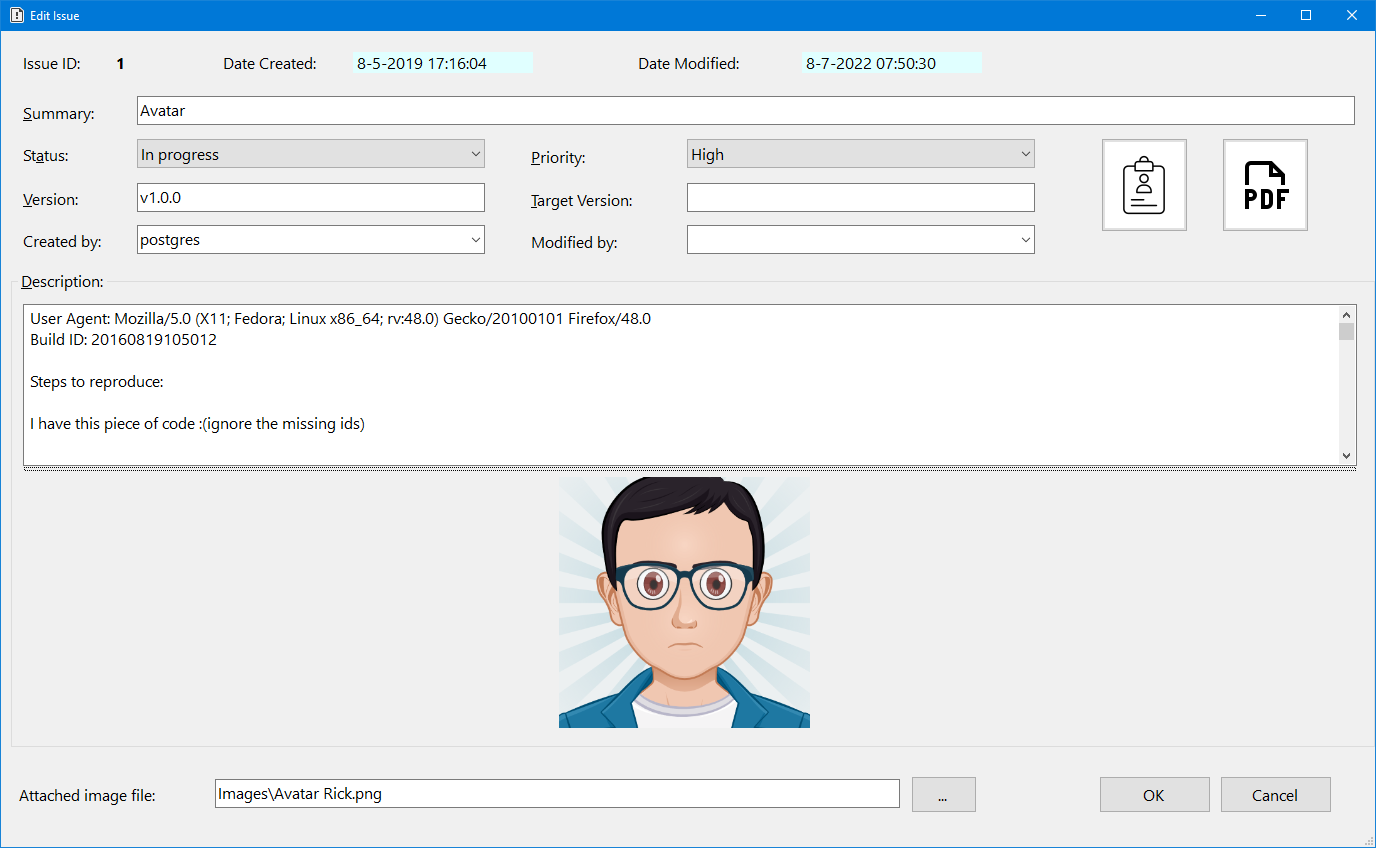
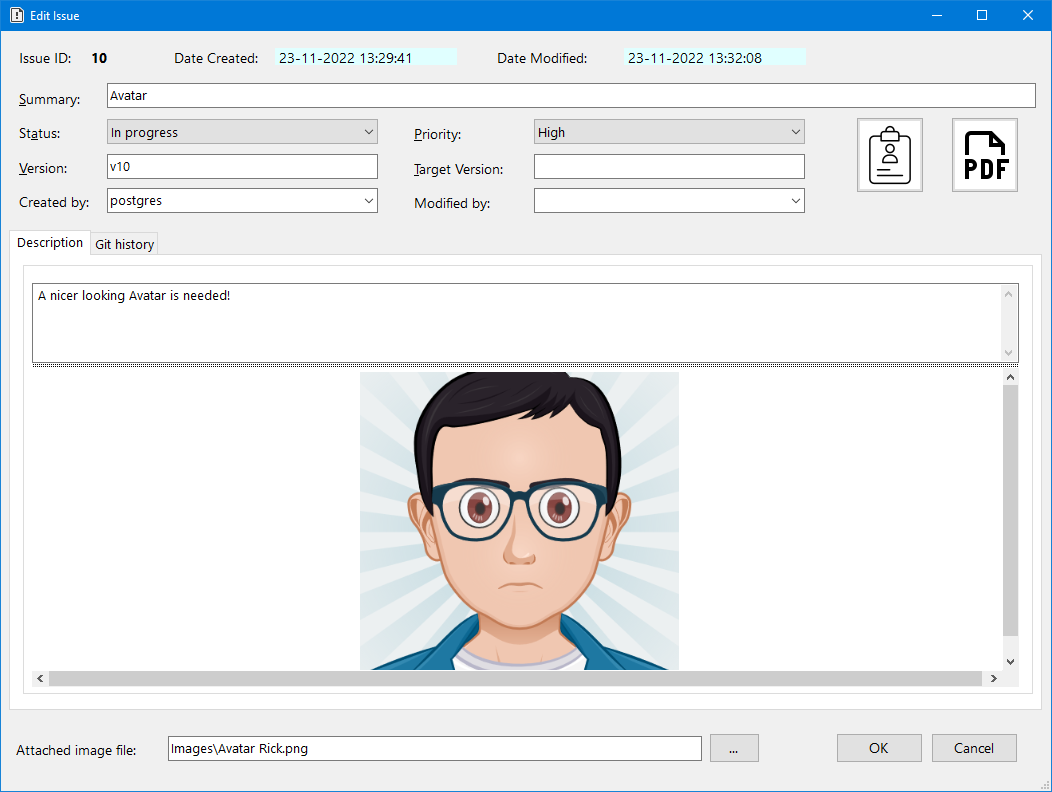
Fix database bug, missing githistory

diff --git a/MaxiBug/IssueForm.Designer.cs b/MaxiBug/IssueForm.Designer.cs
@@ -233,7 +233,7 @@
             this.lblDateCreated.BackColor = System.Drawing.Color.LightCyan;
             this.lblDateCreated.Location = new System.Drawing.Point(235, 13);
             this.lblDateCreated.Name = "lblDateCreated";
-            this.lblDateCreated.Size = new System.Drawing.Size(120, 13);
+            this.lblDateCreated.Size = new System.Drawing.Size(156, 13);
             this.lblDateCreated.TabIndex = 3;
             this.lblDateCreated.Text = "label10";
             // 
@@ -242,7 +242,7 @@
             this.lblDateModified.BackColor = System.Drawing.Color.LightCyan;
             this.lblDateModified.Location = new System.Drawing.Point(534, 13);
             this.lblDateModified.Name = "lblDateModified";
-            this.lblDateModified.Size = new System.Drawing.Size(120, 13);
+            this.lblDateModified.Size = new System.Drawing.Size(156, 13);
             this.lblDateModified.TabIndex = 5;
             this.lblDateModified.Text = "label11";
             // 

diff --git a/MaxiBug/Classes/Database.cs b/MaxiBug/Classes/Database.cs
@@ -593,7 +593,7 @@ namespace MaxiBug
         /// <returns>Returns the new serial id</returns>
         public static int SaveIssue(Issue newIssue)
         {
-            string sql = $@"INSERT INTO issues (datecreated, datemodified, createdby, modifiedby, version, targetversion, priority, status, summary, description, imagefilename, image_id) " +
+            string sql = $@"INSERT INTO issues (datecreated, datemodified, createdby, modifiedby, version, targetversion, priority, status, summary, description, githistory, imagefilename, image_id) " +
                         "VALUES (@datecreated,@datemodified,@createdby,@modifiedby,@version,@targetversion,@priority,@status,@summary,@description,@githistory,@imagefilename,@image_id) " +
                         "RETURNING id;";
 
